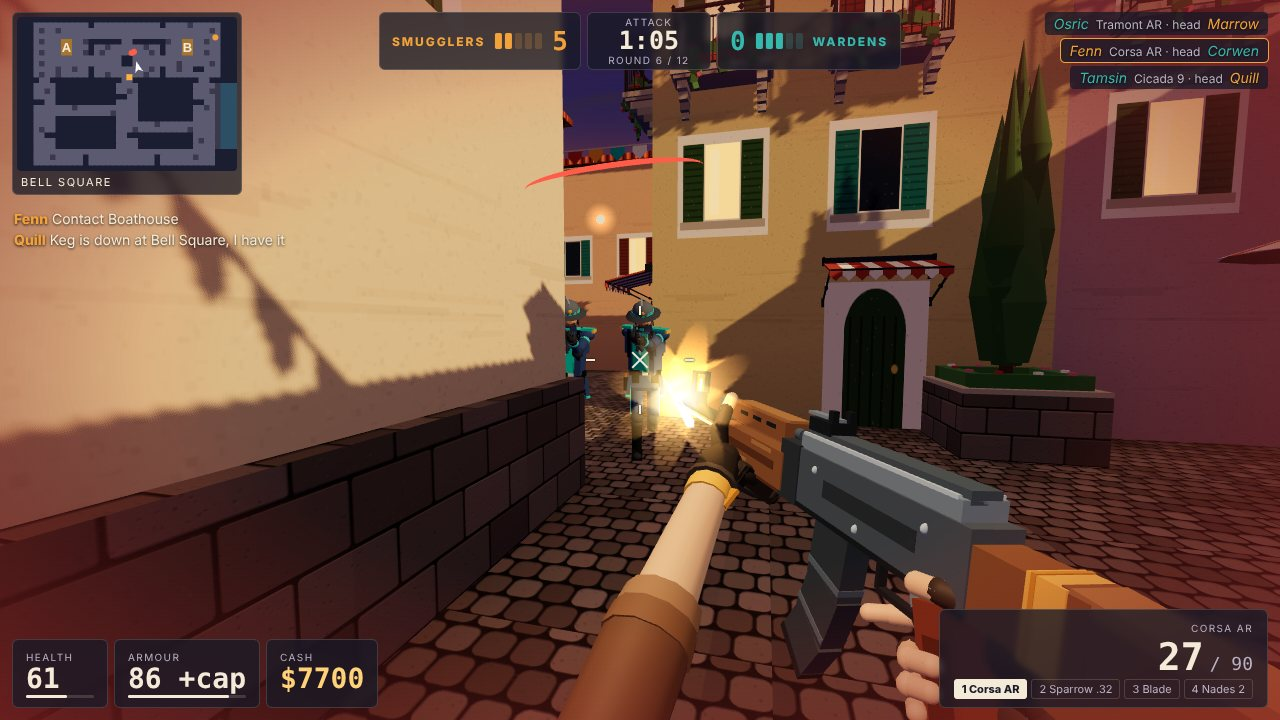
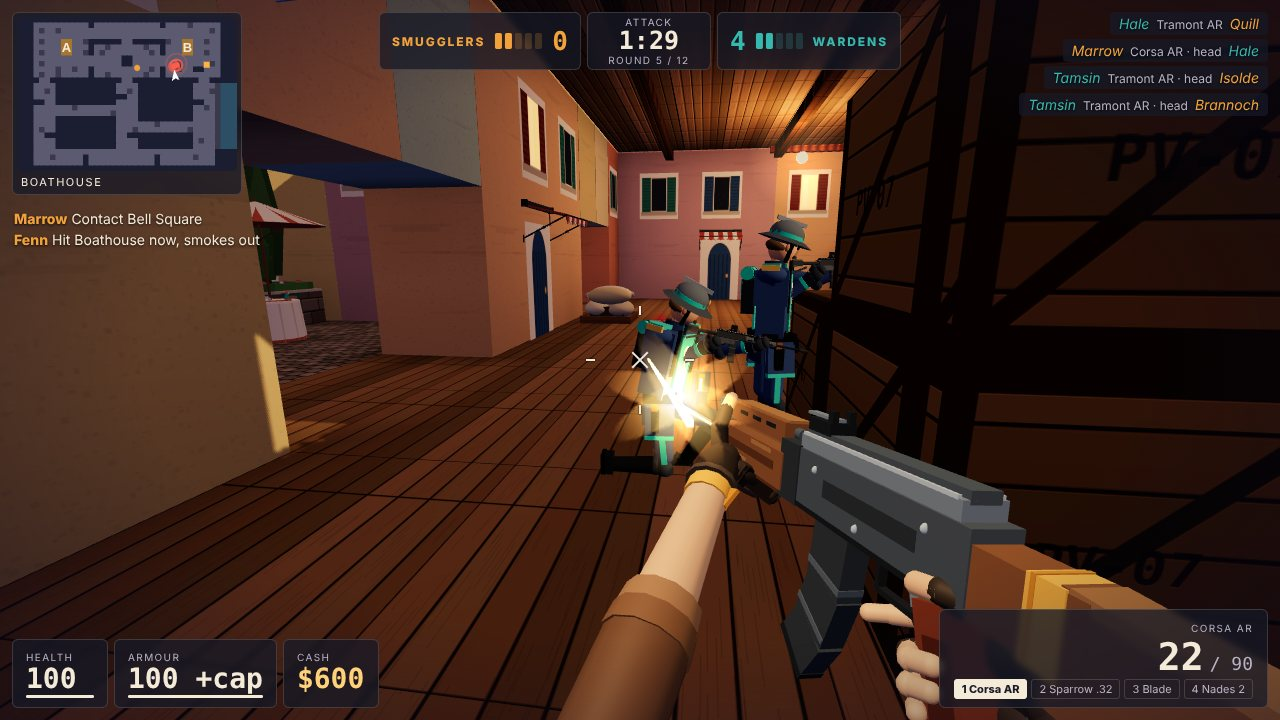
Open the page with a map of the source; give hitboxes, the buy menu and the scoreboard modules of their own
index.html now starts with a comment that says where each part of the game lives, criterion
by criterion. sim/world.js becomes sim/collision.js (the map) and sim/hitboxes.js (bodies);
ui/panels.js becomes ui/buymenu.js and ui/scoreboard.js. The campanile's plinth, cornices and
belfry posts move into the model kit. The cover is a firefight in the Boathouse, and the
dousing frame shows more of the Fish Market.

Claude-Session: https://claude.ai/code/session_01DTLq42At7triNsNC1aVso2

diff --git a/game/src/main.js b/game/src/main.js
@@ -1,23 +1,5 @@
-// CAMPANILE: a 5v5 round-based tactical shooter in a pastel harbour town, on three.js.
-//
-// How the code is laid out (one job per module):
-//   config.js        the tables: movement, rounds, economy, the armoury, the palette
-//   sim/             the game itself, no DOM and no three.js: it runs headless in Node
-//     state.js         the one state object, its event ring and noises
-//     map.js           Porto Vesper as text: lanes, sites, posts, smoke targets
-//     world.js         collision, ray casts, hitboxes      movement.js  acceleration, crouch, jump
-//     weapons.js       cone, recoil, wall-bangs            damage.js    zones and armour
-//     grenades.js      frag, flash, smoke                  keg.js       plant and douse
-//     economy.js       pay and the buy counter             round.js     phases, wins, half-time
-//     coach.js         team plays and rotations            bots.js      one bot's eyes, ears and trigger
-//     nav.js           A* and string-pulling               step.js      one fixed step, systems in order
-//     perception.js    sight and hearing                   loadout.js   slots, dropped rifles   rng.js  seeded dice
-//   render/          view.js draws the state: baked level, painted textures, sky, actors, effects, the weapon in hand;
-//                    kit.js reads the models
-//   ui/              HUD, radar, buy counter, scoreboard   audio.js   synthesised sound   input.js  keys to cmd
-//
-// The loop below steps the simulation at a fixed 60 Hz and renders as fast as the display asks,
-// interpolating between the last two steps.
+// CAMPANILE: a 5v5 round-based tactical shooter in a harbour town (index.html opens with a map of the source).
+// The loop below steps the simulation at a fixed 60 Hz and draws between steps, interpolating the last two.
 import { TICK } from './config.js';
 import { createGame, stepGame } from './sim/step.js';
 import { startMatch } from './sim/round.js';
@@ -34,8 +16,7 @@ const view = createView(document.getElementById('game'), state, await loadKit(['
 const hud = createHud(state), audio = createAudio(state), input = createInput(view.canvas, state, hud);
 const INTRO = document.getElementById('menuLine').textContent;
 
-// For the screenshot script and for tinkering in the console: the live state and HUD, a way to skip ahead,
-// and a switch that stops the clock so a frame can be looked at.
+// For the console and the screenshot script: skip ahead, or stop the clock.
 const dev = window.campanile = { state, hud, hold: false, skip(seconds) { for (let i = 0; i < seconds / TICK; i++) stepGame(state, TICK); } };
 
 let last = performance.now(), debt = 0, encore = 0;

diff --git a/game/src/sim/collision.js b/game/src/sim/collision.js
@@ -1,5 +1,5 @@
-// Geometry queries against the map's boxes: body collision, ray casts and hitboxes. No allocation per call:
-// results come back in the module's shared records.
+// Collision with the map: a body against its boxes, and rays against them (bullets, sight lines, grenades).
+// No allocation per call: results come back in the module's shared records.
 import { MOVE } from '../config.js';
 import { boxes, CELL, COLS, ROWS } from './map.js';
 
@@ -9,7 +9,7 @@ const LIMIT_X = (COLS / 2) * CELL - 0.5, LIMIT_Z = (ROWS / 2) * CELL - 0.5;
 export const hit = { box: null, nx: 0, ny: 0, nz: 0 };
 
 /** Slab test of a ray against one box; returns the entry distance or -1, and leaves the face in `hit`. */
-function rayBox(ox, oy, oz, dx, dy, dz, b, maxT) {
+export function rayBox(ox, oy, oz, dx, dy, dz, b, maxT) {
   let t0 = 0, t1 = maxT, axis = 0, sign = 0;
   for (let i = 0; i < 3; i++) {
     const o = i === 0 ? ox : i === 1 ? oy : oz, d = i === 0 ? dx : i === 1 ? dy : dz;
@@ -87,25 +87,4 @@ export function moveBody(a, dt) {
   if (a.y <= 0) { a.y = 0; a.vy = 0; a.ground = true; }
   a.x = Math.max(-LIMIT_X, Math.min(LIMIT_X, a.x));
   a.z = Math.max(-LIMIT_Z, Math.min(LIMIT_Z, a.z));
-}
-
-// A body's three hitboxes, as fractions of its height: legs, torso, head (the head is the last 0.3 m).
-const ZONE = { t: 0, zone: 0 };
-const part = { x0: 0, y0: 0, z0: 0, x1: 0, y1: 0, z1: 0 };
-function rayPart(ox, oy, oz, dx, dy, dz, a, lo, hi, half, maxT) {
-  part.x0 = a.x - half; part.x1 = a.x + half; part.z0 = a.z - half; part.z1 = a.z + half;
-  part.y0 = a.y + lo; part.y1 = a.y + hi;
-  return rayBox(ox, oy, oz, dx, dy, dz, part, maxT);
-}
-
-/** Where a ray meets a body: returns {t, zone} with zone 0 head, 1 torso, 2 legs, or null. */
-export function rayActor(a, ox, oy, oz, dx, dy, dz, maxT) {
-  const h = bodyHeight(a), waist = h * 0.47, neck = h - 0.3;
-  let best = -1, zone = 0, t;
-  if ((t = rayPart(ox, oy, oz, dx, dy, dz, a, neck, h, 0.16, maxT)) >= 0) { best = t; zone = 0; }
-  if ((t = rayPart(ox, oy, oz, dx, dy, dz, a, waist, neck, 0.27, maxT)) >= 0 && (best < 0 || t < best)) { best = t; zone = 1; }
-  if ((t = rayPart(ox, oy, oz, dx, dy, dz, a, 0, waist, 0.22, maxT)) >= 0 && (best < 0 || t < best)) { best = t; zone = 2; }
-  if (best < 0) return null;
-  ZONE.t = best; ZONE.zone = zone;
-  return ZONE;
 }

diff --git a/game/src/ui/buymenu.js b/game/src/ui/buymenu.js
@@ -1,6 +1,5 @@
-// The two panels that open over the game: the buy counter (B) and the scoreboard (Tab).
-import { GEAR, NADES, SHOP, SIDES, WEAPONS } from '../config.js';
-import { sideOfTeam } from '../sim/state.js';
+// The buy menu (B): the Chandler's Counter, where the round's money is spent by key or by tap.
+import { GEAR, NADES, SHOP, WEAPONS } from '../config.js';
 import { owns, priceOf, shopOpen } from '../sim/economy.js';
 
 export const SHOP_KEYS = [...'1234567890qft']; // not Z, X or V: those call the radio and turn the camera
@@ -30,23 +29,6 @@ export function createShop(el) {
         row.className = `row${have ? ' have' : price < 0 || price > a.money ? ' poor' : ''}`;
         row.lastChild.textContent = have ? 'owned' : price < 0 ? 'Wardens only' : `$${price}`;
       }
-    },
-  };
-}
-
-export function createBoard(el) {
-  let open = false, beat = 0;
-  return {
-    show(on) { open = on; beat = 0; el.style.display = on ? 'block' : 'none'; },
-    update(state) {
-      if (!open || beat++ % 20) return; // three times a second, not every frame
-      const m = state.match;
-      el.innerHTML = [0, 1].map((team) => {
-        const side = sideOfTeam(state, team);
-        const body = state.actors.filter((a) => a.team === team).sort((p, q) => q.kills - p.kills).map((a) =>
-          `<tr class="${a.alive ? '' : 'dead'}"><td class="s${side}">${a.name}${a.hasKeg && team === state.actors[state.viewId].team ? ' (keg)' : ''}</td><td>${a.kills}</td><td>${a.deaths}</td><td>${a.plants}</td><td>$${a.money}</td></tr>`).join('');
-        return `<h2 class="s${side}">${SIDES[side].name} ${m.score[team]} <small>${team ? 'their crew' : 'your crew'}</small></h2><table><tr><th>crew</th><th>kills</th><th>deaths</th><th>plants</th><th>cash</th></tr>${body}</table>`;
-      }).join('<br>');
     },
   };
 }

diff --git a/game/src/render/level.js b/game/src/render/level.js
@@ -5,7 +5,7 @@
 import * as THREE from 'three';
 import { PALETTE } from '../config.js';
 import { boxes, COLS, ROWS, CELL, cellX, cellZ, colOf, rowOf, tile, zoneAt, hash } from '../sim/map.js';
-import { rayWorld } from '../sim/world.js';
+import { rayWorld } from '../sim/collision.js';
 import { label } from './textures.js';
 import { geometry } from './kit.js';
 
@@ -173,9 +173,7 @@ export function buildLevel(scene, tex, kit) {
   // The campanile: a pale shaft over Bell Square, an open belfry with its bell, a tiled spire. Every lane sees it.
   const tower = boxes.find((b) => b.kind === 'tower'), tx0 = tower.x0 - 0.06, tx1 = tower.x1 + 0.06, tz0 = tower.z0 - 0.06, tz1 = tower.z1 + 0.06, mid = (tx0 + tx1) / 2, midZ = (tz0 + tz1) / 2, pale = colour('#f0dcb8');
   plaster.box({ x0: tx0, x1: tx1, z0: tz0, z1: tz1, y0: 0, y1: 20 }, pale, 3, stone, stoneTint, 1.6);
-  for (const [dx, dz] of [[tx0, tz0], [tx1 - 0.6, tz0], [tx0, tz1 - 0.6], [tx1 - 0.6, tz1 - 0.6]]) plaster.box({ x0: dx, x1: dx + 0.6, z0: dz, z1: dz + 0.6, y0: 20, y1: 23.2 }, pale, 3);
-  roof.box({ x0: tx0 - 0.3, x1: tx1 + 0.3, z0: tz0 - 0.3, z1: tz1 + 0.3, y0: 23.2, y1: 23.6 }, WHITE, 2.4);
-  for (const y of [0, 7.4, 13.4, 19.6]) stone.box({ x0: tx0 - 0.14, x1: tx1 + 0.14, z0: tz0 - 0.14, z1: tz1 + 0.14, y0: y, y1: y + (y ? 0.4 : 1.1) }, stoneTint, 1.6); // plinth and cornices
+  prop('campanile', mid, 0, midZ); // its stonework
   for (const y of [3.4, 9.6]) for (const s of [1, -1]) { // arched shutters up the shaft: the trim's door cells
     trim.decal(mid, y, s > 0 ? tz1 : tz0, [s, 0, 0], [0, 0, s], 0.9, 2.3, 6);
     trim.decal(s > 0 ? tx1 : tx0, y, midZ, [0, 0, -s], [s, 0, 0], 0.9, 2.3, 7);

diff --git a/game/index.html b/game/index.html
@@ -1,4 +1,22 @@
 <!doctype html>
+<!--
+Where each part of this round-based tactical shooter lives (under src/):
+1 Game: first person, mouse look, WASD (input.js, render/view.js); nine bots that move, see and shoot back
+  (sim/bots.js); rounds end by a wipe, the clock, the blast or the douse, sides swap at half-time, first to 7
+  (sim/round.js); HUD, radar, kill feed (ui/).
+2 Gunplay: guns fire, reload and run dry; a cone that running, jumping and spraying open and a crouch
+  tightens, a recoil pattern, wall-bangs (sim/weapons.js); head, torso and leg hitboxes (sim/hitboxes.js);
+  head x4, legs x0.75, falloff, armour (sim/damage.js); acceleration, friction, crouch, jump, sliding
+  collision (sim/movement.js, sim/collision.js).
+3 Tactics: a keg to plant on site A or B and douse (sim/keg.js); pay for wins, losing streaks, kills and
+  plants, spent in the buy menu on seven guns, armour, frag, flash and smoke (sim/economy.js, ui/buymenu.js,
+  sim/grenades.js); bots path with A* (sim/nav.js), see in a cone, hear steps and shots
+  (sim/perception.js), hold posts, run plays and rotate (sim/coach.js).
+4 Look: a text map (sim/map.js) built with baked light (render/level.js), painted textures
+  (render/textures.js), models kept as data (render/kit.js).
+5 Code: a fixed 60 Hz step apart from rendering (main.js, sim/step.js); one state object (sim/state.js);
+  pooled events and shared records, so hot loops make no objects.
+-->
 <html lang="en">
 <head>
 <meta charset="utf-8">

diff --git a/game/src/sim/hitboxes.js b/game/src/sim/hitboxes.js
@@ -1,0 +1,24 @@
+// Hits checked against bodies: each has three hitboxes, legs, torso and head, and a ray reports which it met.
+// damage.js turns that zone into the multiplier: the head takes the most. One shared record: no allocation per shot.
+import { rayBox, bodyHeight } from './collision.js';
+
+// The boxes as fractions of a body's height; the head is the last 0.3 m.
+const ZONE = { t: 0, zone: 0 };
+const part = { x0: 0, y0: 0, z0: 0, x1: 0, y1: 0, z1: 0 };
+function rayPart(ox, oy, oz, dx, dy, dz, a, lo, hi, half, maxT) {
+  part.x0 = a.x - half; part.x1 = a.x + half; part.z0 = a.z - half; part.z1 = a.z + half;
+  part.y0 = a.y + lo; part.y1 = a.y + hi;
+  return rayBox(ox, oy, oz, dx, dy, dz, part, maxT);
+}
+
+/** Where a ray meets a body: returns {t, zone} with zone 0 head, 1 torso, 2 legs, or null. */
+export function rayActor(a, ox, oy, oz, dx, dy, dz, maxT) {
+  const h = bodyHeight(a), waist = h * 0.47, neck = h - 0.3;
+  let best = -1, zone = 0, t;
+  if ((t = rayPart(ox, oy, oz, dx, dy, dz, a, neck, h, 0.16, maxT)) >= 0) { best = t; zone = 0; }
+  if ((t = rayPart(ox, oy, oz, dx, dy, dz, a, waist, neck, 0.27, maxT)) >= 0 && (best < 0 || t < best)) { best = t; zone = 1; }
+  if ((t = rayPart(ox, oy, oz, dx, dy, dz, a, 0, waist, 0.22, maxT)) >= 0 && (best < 0 || t < best)) { best = t; zone = 2; }
+  if (best < 0) return null;
+  ZONE.t = best; ZONE.zone = zone;
+  return ZONE;
+}

diff --git a/game/src/ui/scoreboard.js b/game/src/ui/scoreboard.js
@@ -1,0 +1,20 @@
+// The scoreboard (Tab): both crews by kills, with deaths, plants and cash.
+import { SIDES } from '../config.js';
+import { sideOfTeam } from '../sim/state.js';
+
+export function createBoard(el) {
+  let open = false, beat = 0;
+  return {
+    show(on) { open = on; beat = 0; el.style.display = on ? 'block' : 'none'; },
+    update(state) {
+      if (!open || beat++ % 20) return; // three times a second, not every frame
+      const m = state.match;
+      el.innerHTML = [0, 1].map((team) => {
+        const side = sideOfTeam(state, team);
+        const body = state.actors.filter((a) => a.team === team).sort((p, q) => q.kills - p.kills).map((a) =>
+          `<tr class="${a.alive ? '' : 'dead'}"><td class="s${side}">${a.name}${a.hasKeg && team === state.actors[state.viewId].team ? ' (keg)' : ''}</td><td>${a.kills}</td><td>${a.deaths}</td><td>${a.plants}</td><td>$${a.money}</td></tr>`).join('');
+        return `<h2 class="s${side}">${SIDES[side].name} ${m.score[team]} <small>${team ? 'their crew' : 'your crew'}</small></h2><table><tr><th>crew</th><th>kills</th><th>deaths</th><th>plants</th><th>cash</th></tr>${body}</table>`;
+      }).join('<br>');
+    },
+  };
+}

diff --git a/game/src/render/kit.js b/game/src/render/kit.js
@@ -1,10 +1,9 @@
 // Models are data, not code. The asset files list every figure, weapon and street prop as boxes, cylinders,
 // spheres, capsules and cones hung on named bones; this reads it and bakes each bone's parts into one mesh
 // with vertex colours, so a figure of ninety parts is a dozen draw calls and a pose is a few bone rotations.
-//
-//   @ name                       starts a model
-//   > bone parent x y z          a bone, placed in its parent's space ('-' for the root)
-//   b|c|s|k|n w h d  x y z  rx ry rz  #colour     a box, cylinder, sphere, capsule or cone on the last bone
+//   @ name                             starts a model
+//   > bone parent x y z                a bone, in its parent's space ('-' for the root)
+//   b|c|s|k|n w h d x y z rx ry rz #c  a box, cylinder, sphere, capsule or cone on the last bone
 import * as THREE from 'three';
 
 const SHAPES = {

diff --git a/game/src/ui/hud.js b/game/src/ui/hud.js
@@ -8,7 +8,8 @@ import { weaponOf } from '../sim/loadout.js';
 import { canPlant, canDouse, douseTime } from '../sim/keg.js';
 import { shopOpen } from '../sim/economy.js';
 import { createRadar } from './radar.js';
-import { createShop, createBoard } from './panels.js';
+import { createShop } from './buymenu.js';
+import { createBoard } from './scoreboard.js';
 
 const REASONS = { wiped: 'the other crew is down', time: 'the clock ran out', doused: 'the keg is doused', blast: 'the keg went up' };
 const clockText = (s) => `${Math.floor(s / 60)}:${String(s % 60).padStart(2, '0')}`; // from whole seconds

diff --git a/game/src/sim/weapons.js b/game/src/sim/weapons.js
@@ -1,7 +1,8 @@
 // The trigger: switching, reloading, the firing cadence, and the accuracy model that makes stopping to aim pay.
 import { MOVE, SPRAY } from '../config.js';
 import { emit, noise } from './state.js';
-import { rayActor, rayWorld, eyeHeight, hit, look } from './world.js';
+import { rayWorld, eyeHeight, hit, look } from './collision.js';
+import { rayActor } from './hitboxes.js';
 import { strike, WALLBANG } from './damage.js';
 import { throwNade } from './grenades.js';
 import { weaponOf } from './loadout.js';

diff --git a/game/src/sim/grenades.js b/game/src/sim/grenades.js
@@ -1,7 +1,7 @@
 // Thrown gear: a Crackler bursts, a Glare blinds whoever is looking, a Seafog hangs a cloud that blocks sight.
 import { MOVE, NADES } from '../config.js';
 import { emit, noise } from './state.js';
-import { rayWorld, sightClear, eyeHeight, hit, look } from './world.js';
+import { rayWorld, sightClear, eyeHeight, hit, look } from './collision.js';
 import { hurt } from './damage.js';
 
 const THROW = 17, CLOUD_Y = 1.4;

diff --git a/game/src/audio.js b/game/src/audio.js
@@ -3,7 +3,7 @@
 import { WEAPONS } from './config.js';
 import { drain } from './sim/state.js';
 import { zoneAt } from './sim/map.js';
-import { rayWorld } from './sim/world.js';
+import { rayWorld } from './sim/collision.js';
 
 // Per weapon kind: [loudness, body s, body Hz]
 const GUNS = { pistol: [0.3, 0.1, 2600], smg: [0.24, 0.07, 3300], rifle: [0.4, 0.14, 1900], shotgun: [0.5, 0.26, 1100], sniper: [0.6, 0.4, 900] };
